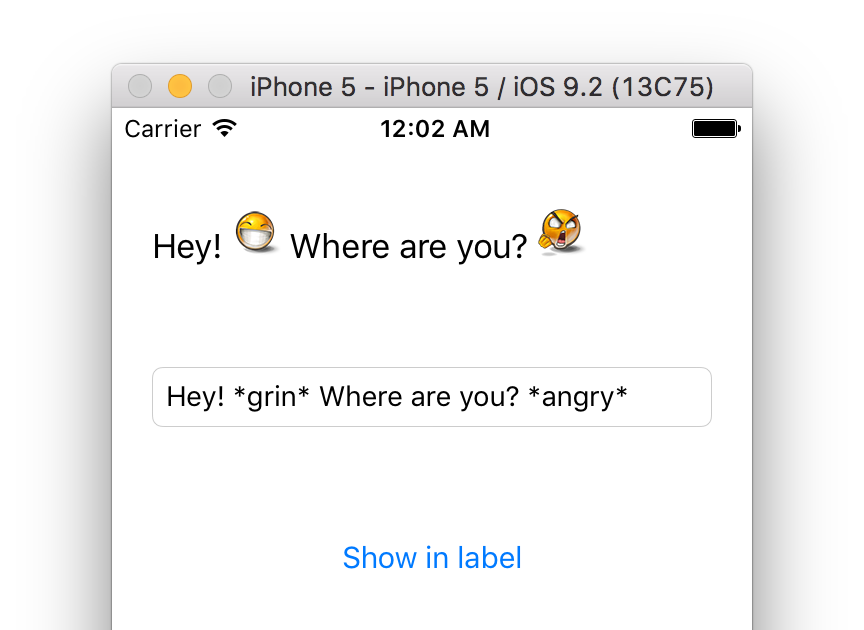
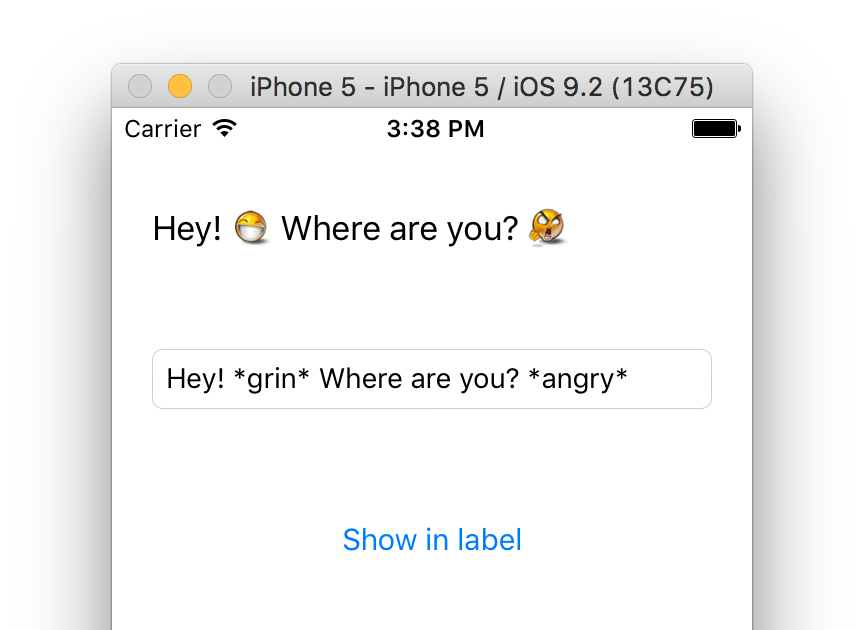
Update README and screenshot

diff --git a/README.md b/README.md
@@ -23,6 +23,13 @@ let emoji1 = Emoji(code: "*angry*", image: UIImage(named: "angry")!)
 let emoji2 = Emoji(code: "*grin*", image: UIImage(named: "grin")!)
 ```
 
+Set default height and offset based on your preferred font so the emojis are aligned nicely (optional)
+
+```swift
+Gutenberg.setDefaultHeight(self.textLabel.font.lineHeight)
+Gutenberg.setDefaultYOffset(self.textLabel.font.descender)
+```
+
 And register them
 
 ```swift
